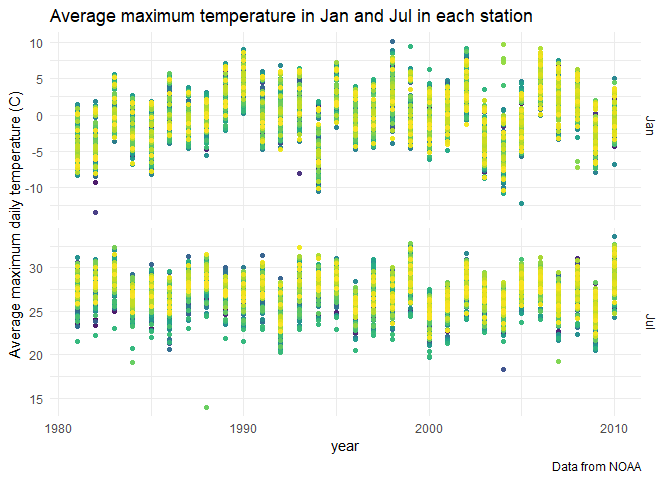
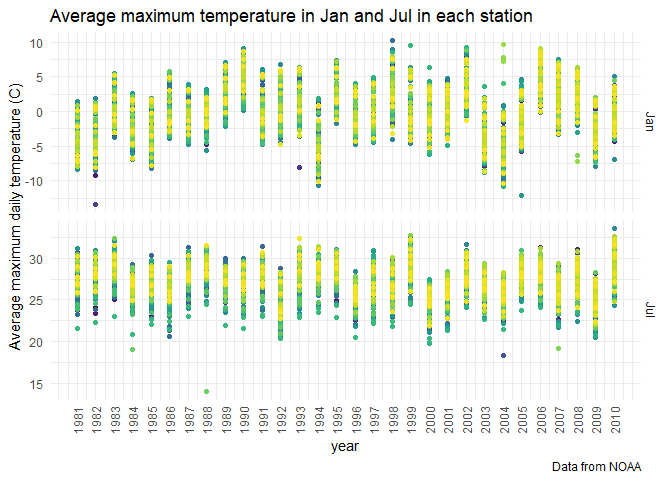
minor change to problem3

diff --git a/p8105_hw3_js6177.md b/p8105_hw3_js6177.md
@@ -162,7 +162,10 @@ accel %>%
     title = "Plot of 24-hour activity time courses",
     x = "Activity time (hour)",
     y = "Mean activity counts"
-  )
+  )+
+  viridis::scale_color_viridis(
+    name = "Day type",
+    discrete = TRUE) 
 ```
 
 ![](p8105_hw3_js6177_files/figure-gfm/unnamed-chunk-5-1.png)<!-- -->
@@ -268,6 +271,8 @@ ny_noaa_tidy %>%
     x = "year",
     y = "Average maximum daily temperature (C)",
     caption = "Data from NOAA")+
+  scale_x_continuous(breaks = seq(1981,2010,1))+
+  theme(axis.text.x = element_text(angle = 90, vjust = 0.5, hjust=1))+
   theme(legend.position = "none")
 ```
 
@@ -351,9 +356,9 @@ rbind(
 ### (3)
 
 To better reduce overlapping, I use hexagonal heatmap instead of
-traditional scatterplot to plot `tmax` vs `tmin`. I use ridgeline
-visualization to show the distribution of snowfall values greater than 0
-and less than 100 separately by year.
+traditional scatterplot to plot `tmax` vs `tmin`. I use boxplot to show
+the distribution of snowfall values greater than 0 and less than 100
+separately by year.
 
 ``` r
 tmax_tmin = 
@@ -398,5 +403,4 @@ records based on common sense. The maximum temperature centers around
 14C while the minimum temperature centers around 3C.
 
 The distributions of snowfall for all years are right-skewed, centering
-around 20-30mm. The maximum snowfall can reach over 80, which indicates
-either a horrible disaster or wrong recording.
+around 20-30mm and median remains around 25mm.
